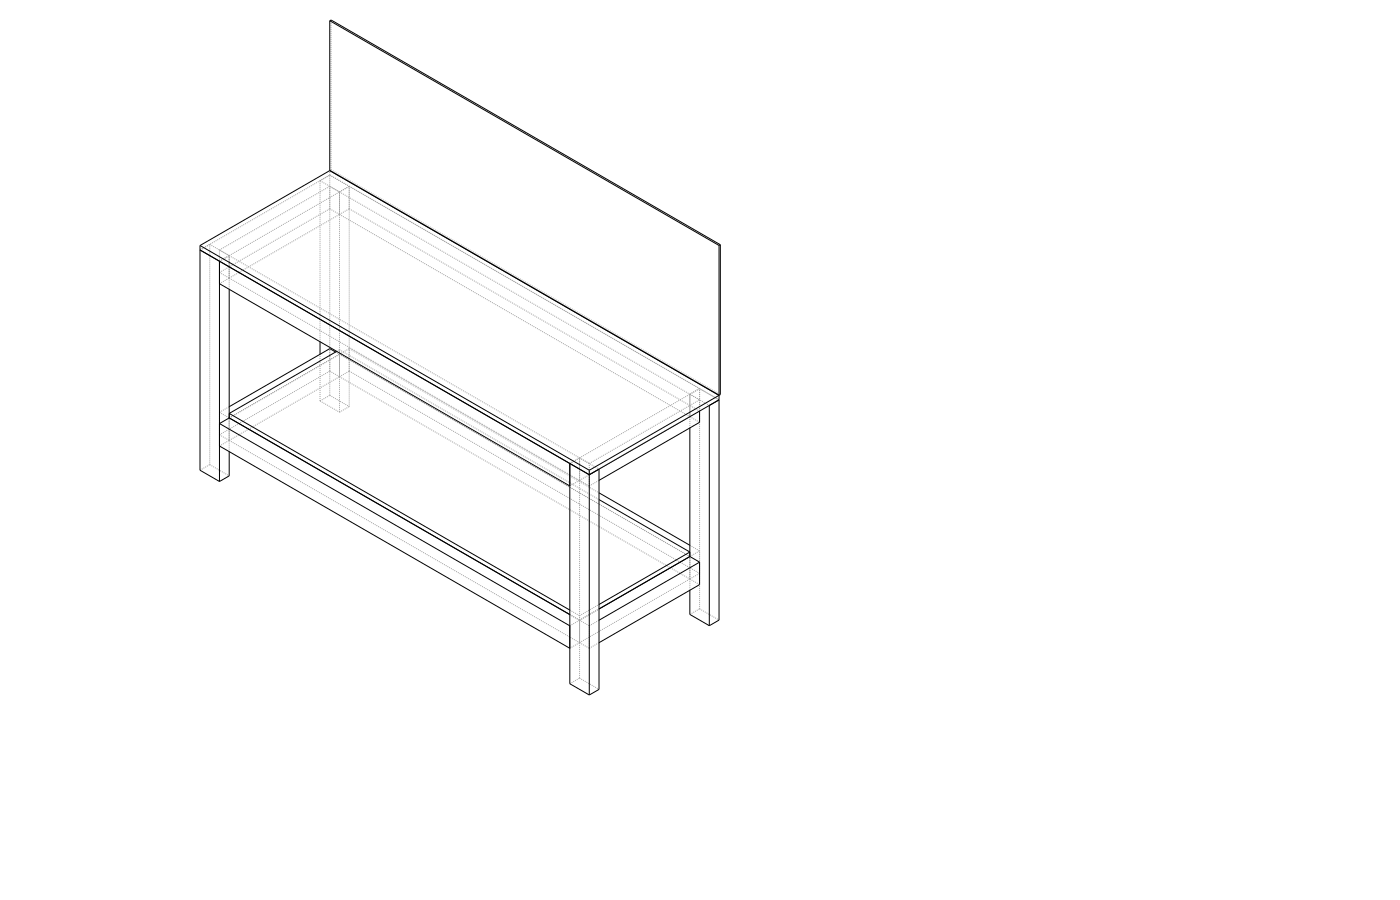
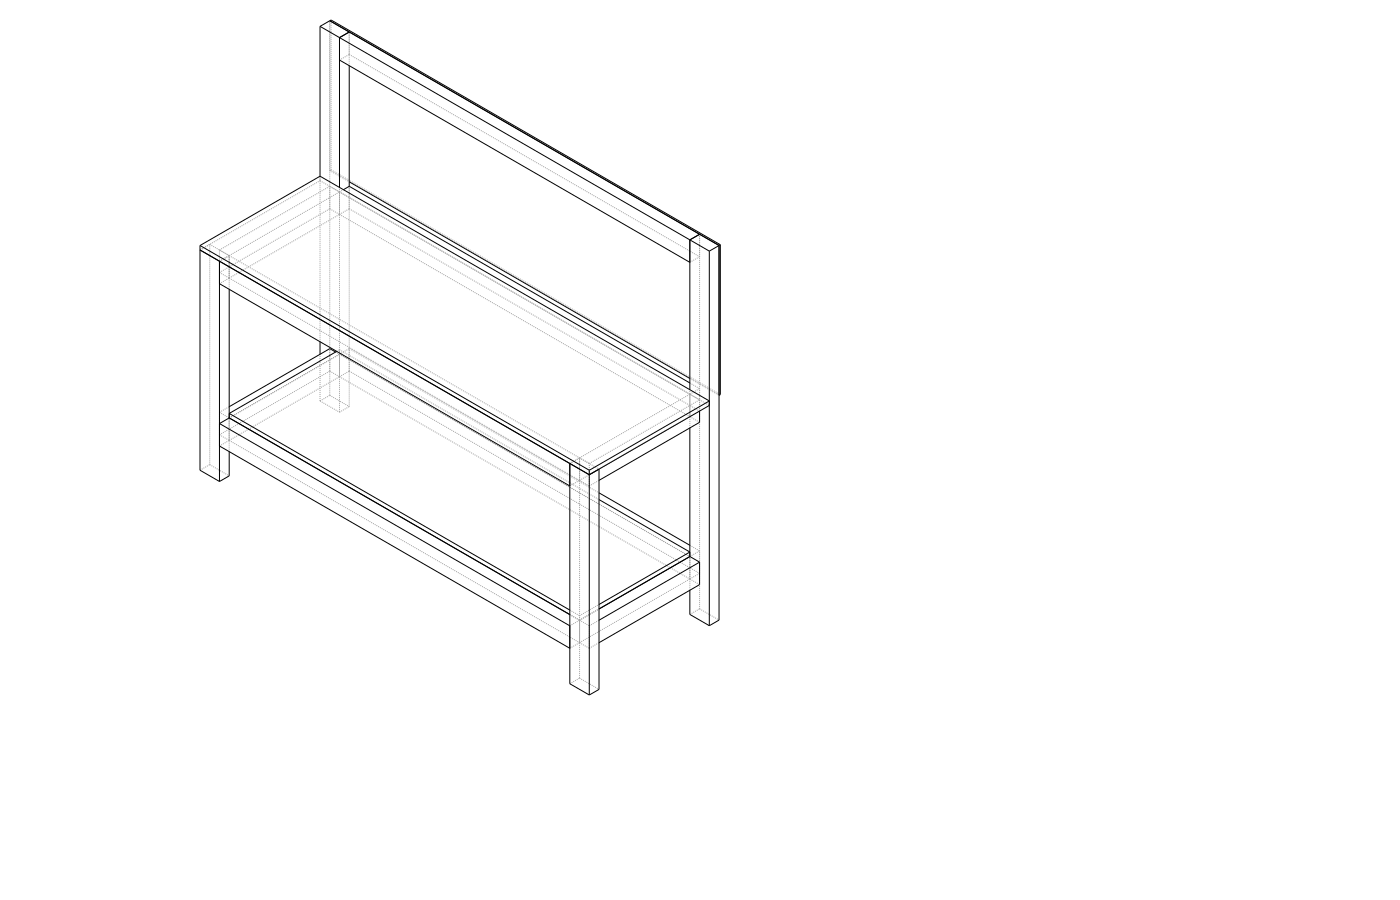
deploy: 6d04c8353e09186e72a85e5cb78d9bebd33edb3e

diff --git a/pr-4/garage-workbench/index.html b/pr-4/garage-workbench/index.html
@@ -130,7 +130,7 @@ figure img { width: 100%; height: auto; display: block; background: #fff; }
 <body>
   <p class="back"><a href="../">← All Projects</a></p>
   <h2>Garage Workbench</h2>
-  <p class="meta">Generated 2026-05-03 04:31 UTC</p>
+  <p class="meta">Generated 2026-05-03 05:56 UTC</p>
   <div class="views">
     <figure>
       <figcaption>Isometric</figcaption>
@@ -168,11 +168,11 @@ figure img { width: 100%; height: auto; display: block; background: #fff; }
       <th class="num">Subtotal</th>
     </tr>
   </thead>
-  <tbody><tr><td>90×45 H3.2 rough-sawn framing pine — legs, aprons, stretchers</td><td class='num'>13</td><td>meters</td><td class='num'>$3.20</td><td class='num'>$41.60</td></tr><tr><td>18mm F8 structural plywood 2400×1200 — top and shelf</td><td class='num'>2</td><td>sheets</td><td class='num'>$72.00</td><td class='num'>$144.00</td></tr><tr><td>75mm construction screws (box 100) — all frame joints, top and shelf</td><td class='num'>1</td><td>box</td><td class='num'>$14.00</td><td class='num'>$14.00</td></tr><tr><td>PVA wood glue 1L</td><td class='num'>1</td><td>each</td><td class='num'>$12.00</td><td class='num'>$12.00</td></tr><tr><td>6mm hardboard 1800×900mm sheet — pegboard</td><td class='num'>1</td><td>each</td><td class='num'>$0.00</td><td class='num'>$0.00</td></tr><tr><td>30mm screws (box 50) — pegboard mounting</td><td class='num'>1</td><td>box</td><td class='num'>$0.00</td><td class='num'>$0.00</td></tr></tbody>
+  <tbody><tr><td>90×45 H3.2 rough-sawn framing pine — legs, aprons, stretchers</td><td class='num'>16</td><td>meters</td><td class='num'>$3.20</td><td class='num'>$51.20</td></tr><tr><td>18mm F8 structural plywood 2400×1200 — top and shelf</td><td class='num'>2</td><td>sheets</td><td class='num'>$72.00</td><td class='num'>$144.00</td></tr><tr><td>75mm construction screws (box 100) — all frame joints, top and shelf</td><td class='num'>1</td><td>box</td><td class='num'>$14.00</td><td class='num'>$14.00</td></tr><tr><td>PVA wood glue 1L</td><td class='num'>1</td><td>each</td><td class='num'>$12.00</td><td class='num'>$12.00</td></tr><tr><td>6mm hardboard 1800×900mm sheet — pegboard</td><td class='num'>1</td><td>each</td><td class='num'>$0.00</td><td class='num'>$0.00</td></tr><tr><td>30mm screws (box 50) — pegboard mounting</td><td class='num'>1</td><td>box</td><td class='num'>$0.00</td><td class='num'>$0.00</td></tr></tbody>
   <tfoot>
     <tr>
       <td colspan="4">Total</td>
-      <td class="num">$211.60</td>
+      <td class="num">$221.20</td>
     </tr>
   </tfoot>
 </table>
@@ -211,13 +211,22 @@ figure img { width: 100%; height: auto; display: block; background: #fff; }
 </thead>
 <tbody>
 <tr>
-<td>Leg</td>
-<td>4</td>
+<td>Front leg</td>
+<td>2</td>
 <td>882</td>
 <td>90</td>
 <td>45</td>
 <td>90×45 H3.2 pine</td>
 <td>90 mm face runs left-right</td>
+</tr>
+<tr>
+<td>Back leg</td>
+<td>2</td>
+<td>1500</td>
+<td>90</td>
+<td>45</td>
+<td>90×45 H3.2 pine</td>
+<td>Extended — pegboard frame uprights</td>
 </tr>
 <tr>
 <td>Long apron</td>
@@ -259,7 +268,7 @@ figure img { width: 100%; height: auto; display: block; background: #fff; }
 <td>Top</td>
 <td>1</td>
 <td>1800</td>
-<td>600</td>
+<td>555</td>
 <td>18</td>
 <td>18 mm F8 ply</td>
 <td>Work surface</td>
@@ -274,6 +283,15 @@ figure img { width: 100%; height: auto; display: block; background: #fff; }
 <td>Inset between legs</td>
 </tr>
 <tr>
+<td>Back top rail</td>
+<td>1</td>
+<td>1620</td>
+<td>90</td>
+<td>45</td>
+<td>90×45 pine</td>
+<td>Pegboard frame top</td>
+</tr>
+<tr>
 <td>Pegboard</td>
 <td>1</td>
 <td>1800</td>
@@ -284,10 +302,9 @@ figure img { width: 100%; height: auto; display: block; background: #fff; }
 </tr>
 </tbody>
 </table>
-<p><strong>Framing total:</strong> 12.0 m of 90×45 mm — buy 13 m to allow for end cuts.<br />
-Suggested lengths: 3× 4.8 m + 1× 3.0 m, or whatever combination covers 13 m with minimal waste.</p>
+<p><strong>Framing total:</strong> 14.9 m of 90×45 mm — buy 16 m to allow for end cuts.</p>
 <p><strong>Plywood:</strong> 2 sheets of 2400×1200×18 mm F8 structural ply.<br />
-Sheet 1 → top (1800×600). Sheet 2 → shelf (1620×510) with offcut to spare.<br />
+Sheet 1 → top (1800×555). Sheet 2 → shelf (1620×510) with offcut to spare.<br />
 <strong>Pegboard:</strong> 1 sheet of 1800×900×6 mm hardboard, cut to 1800×600 mm.</p>
 <hr />
 <h2>Build steps</h2>
@@ -296,7 +313,7 @@ Sheet 1 → top (1800×600). Sheet 2 → shelf (1620×510) with offcut to spare.
 <p><strong>Buy rough-sawn framing timber</strong> — Purchase 90×45 H3.2 rough-sawn framing pine from the framing rack (not the dressed joinery section). This is standard house-framing stock — cheaper, widely available, and perfectly adequate for a workbench. Wear gloves when handling green treated timber. Sight down each length and reject anything badly bowed or twisted; a slight crown is fine. Actual cross-sections run ±2–3 mm from nominal — this makes no difference for toe-nailed butt-joint construction.</p>
 </li>
 <li>
-<p><strong>Cut legs to length</strong> — Cross-cut 4 legs at 882 mm using a handsaw. Mark a square line around all four faces with a combination square before cutting. Bundle the 4 legs and check they are the same length.</p>
+<p><strong>Cut legs to length</strong> — Cross-cut 2 front legs at 882 mm and 2 back legs at 1500 mm using a handsaw. Mark a square line around all four faces before each cut. Keep front and back legs in separate bundles — they look similar until you measure them.</p>
 </li>
 <li>
 <p><strong>Cut aprons and stretchers</strong> — Cross-cut the remaining 90×45 to:</p>
@@ -305,19 +322,21 @@ Sheet 1 → top (1800×600). Sheet 2 → shelf (1620×510) with offcut to spare.
 <li>2× 510 mm (short aprons)</li>
 <li>2× 1620 mm (long stretchers)</li>
 <li>2× 510 mm (short stretchers)</li>
+<li>1× 1620 mm (back top rail — pegboard frame top)</li>
 </ol>
 <p>Label each piece immediately — aprons and stretchers are the same length per pair but live at different heights.</p>
 <ol>
 <li><strong>Mark the leg joint positions</strong> — On each leg, mark two lines with a square:</li>
 <li>Apron shoulder: 90 mm down from the top (the apron top face is flush with the leg top).</li>
 <li>
-<p>Stretcher shoulder: 142 mm up from the bottom (stretcher bottom face = 142 mm; top face = 232 mm; shelf top = 250 mm).</p>
+<p>Stretcher shoulder: 142 mm up from the bottom (stretcher bottom face = 142 mm; top face = 232 mm; shelf top = 250 mm).<br />
+   Mark all 4 legs at these positions — both joints are the same height on front and back legs.</p>
 </li>
 <li>
 <p><strong>Build the end frames</strong> — For each of the two end frames (left and right):</p>
 </li>
 </ol>
-<p>a. Lay two legs on the floor parallel, 510 mm apart (inside-face to inside-face).</p>
+<p>a. Lay one front leg and one back leg on the floor parallel, 510 mm apart (inside-face to inside-face).</p>
 <p>b. Clamp a short apron across the top between the legs, top faces flush, inside face of apron flush with the inside face of each leg. Check square by measuring both diagonals.</p>
 <p>c. Toe-nail 3× 75 mm construction screws per joint from <strong>inside the frame</strong>: tilt the drill to ~30° and start each screw on the <strong>inside face</strong> of the apron, about 20–25 mm back from the joint end, angling into the leg face — one angled up, one angled down, one roughly straight. The screw travels through apron face grain and bites into leg face grain — no end grain involved. Apply PVA to the joint face first. A 3 mm pilot at the same angle prevents splitting.</p>
 <p>d. Repeat for the short stretcher at the lower position.</p>
@@ -331,16 +350,19 @@ Sheet 1 → top (1800×600). Sheet 2 → shelf (1620×510) with offcut to spare.
 <p>d. Recheck square and adjust if needed (a diagonal tap with a hammer usually corrects a few mm).</p>
 <ol>
 <li>
-<p><strong>Cut sheet materials</strong> — From sheet 1, cut the top: 1800×600 mm. From sheet 2, cut the shelf: 1620×510 mm. From the hardboard sheet, cut the pegboard panel: 1800×600 mm. A circular saw with a clamped straight-edge gives a clean straight cut; alternatively ask the timber yard to rip the sheets for you.</p>
+<p><strong>Fit the back top rail</strong> — Toe-nail the 1620 mm back top rail between the tops of the two extended back legs, flush with their top faces and with the inside back face of the legs — this mirrors the front apron and completes the pegboard perimeter frame. 3× 75 mm screws per joint from inside.</p>
 </li>
 <li>
-<p><strong>Attach the top</strong> — Place the plywood top on the frame, centred side-to-side. Drive 75 mm construction screws at an angle through the top edge of each apron up into the underside of the plywood — 3 screws per long apron and 2 per short apron. No countersink needed; the screw head pulls into pine.</p>
+<p><strong>Cut sheet materials</strong> — From sheet 1, cut the top: 1800×555 mm (shortened to clear the extended back legs). From sheet 2, cut the shelf: 1620×510 mm. From the hardboard sheet, cut the pegboard panel: 1800×600 mm. A circular saw with a clamped straight-edge gives a clean straight cut; alternatively ask the timber yard to rip the sheets for you.</p>
+</li>
+<li>
+<p><strong>Attach the top</strong> — Place the 1800×555 mm plywood top on the frame flush with the front and side faces, butting its back edge against the front faces of the extended back legs. Drive 75 mm construction screws at an angle through the top edge of each apron up into the underside of the plywood — 3 screws per long apron and 2 per short apron.</p>
 </li>
 <li>
 <p><strong>Fit the shelf</strong> — Drop the shelf panel onto the stretchers. Drive 2× 75 mm screws per stretcher through the shelf into the stretcher top face to hold it captive.</p>
 </li>
 <li>
-<p><strong>Mount the pegboard</strong> — Stand the 1800×600 mm hardboard panel against the back face of the bench, flush with the outer back faces of the legs and back apron. Pre-drill 3 mm pilot holes through the 6 mm hardboard: 2 into each back leg (at ⅓ and ⅔ of the panel height) and 2 into the back apron near the quarter-points. Drive 30 mm screws to pull the panel tight. The panel sits directly above the work surface with no gap at the top edge.</p>
+<p><strong>Mount the pegboard</strong> — Stand the 1800×600 mm hardboard panel in the frame: bottom edge resting on the work surface, top edge against the back top rail, side edges against the back legs. Pre-drill 3 mm pilot holes through the 6 mm hardboard into each back leg (at ⅓ and ⅔ of the panel height) and into the back top rail near the quarter-points. Drive 30 mm screws to pull the panel tight into the frame.</p>
 </li>
 <li>
 <p><strong>Finish</strong> — The H3.2 treated pine needs no additional finish for a garage environment. Round any sharp corners with a few passes of 80-grit sandpaper. The plywood top can be left bare and will harden with use, or apply 2 coats of boiled linseed oil for moisture resistance.</p>
@@ -354,7 +376,7 @@ Sheet 1 → top (1800×600). Sheet 2 → shelf (1620×510) with offcut to spare.
 <li><strong>Square check:</strong> After every glue-and-screw step, measure both diagonals. Equal diagonals = square frame. A 2 mm difference is acceptable; correct anything over 4 mm by tapping a corner before the glue sets.</li>
 <li><strong>Toe-nailing technique:</strong> Start each screw about 20–25 mm back from the joint face on the inside face of the apron or stretcher. Tilt the drill to approximately 30°. A 3 mm pilot hole at the same angle prevents splitting near the ends. Three screws per joint — one angled up, one angled down, one roughly straight — gives good pull-out resistance with no screws entering end grain and no crossing paths inside any timber section.</li>
 <li><strong>Leg orientation:</strong> The 90 mm face of each leg faces left-right (visible from the front), the 45 mm face goes front-to-back. This keeps the bench shallow and saves material while maintaining good load-bearing capacity.</li>
-<li><strong>Pegboard mounting:</strong> The hardboard panel is secured with 30 mm screws through its face into the back legs and back apron — 2 into each back leg and 2 into the back apron is sufficient for a tool board.</li>
+<li><strong>Pegboard frame:</strong> The two extended back legs and back top rail form a rigid perimeter. The hardboard panel screws into all four sides — no bowing under tool loads.</li>
 <li><strong>Future upgrades:</strong> A face vice (Record #52 or similar) bolts to the left-end apron. The 90 mm apron face provides a good clamping surface.</li>
 </ul></div>
 </body>

diff --git a/pr-4/index.html b/pr-4/index.html
@@ -42,7 +42,7 @@ h2 { font-size: 1.3rem; color: #c8a96e; margin-bottom: 1rem; }
 </head>
 <body>
   <h1>Woodworking Projects</h1>
-  <p class="meta">Generated 2026-05-03 04:31 UTC &mdash; 2 project(s)</p>
+  <p class="meta">Generated 2026-05-03 05:56 UTC &mdash; 2 project(s)</p>
   <div class="grid">
     <a class="card" href="firewood-shelter/">
       <img src="firewood-shelter/preview.png" alt="Firewood Shelter">

diff --git a/pr-4/firewood-shelter/index.html b/pr-4/firewood-shelter/index.html
@@ -130,7 +130,7 @@ figure img { width: 100%; height: auto; display: block; background: #fff; }
 <body>
   <p class="back"><a href="../">← All Projects</a></p>
   <h2>Firewood Shelter</h2>
-  <p class="meta">Generated 2026-05-03 04:31 UTC</p>
+  <p class="meta">Generated 2026-05-03 05:56 UTC</p>
   <div class="views">
     <figure>
       <figcaption>Isometric</figcaption>
